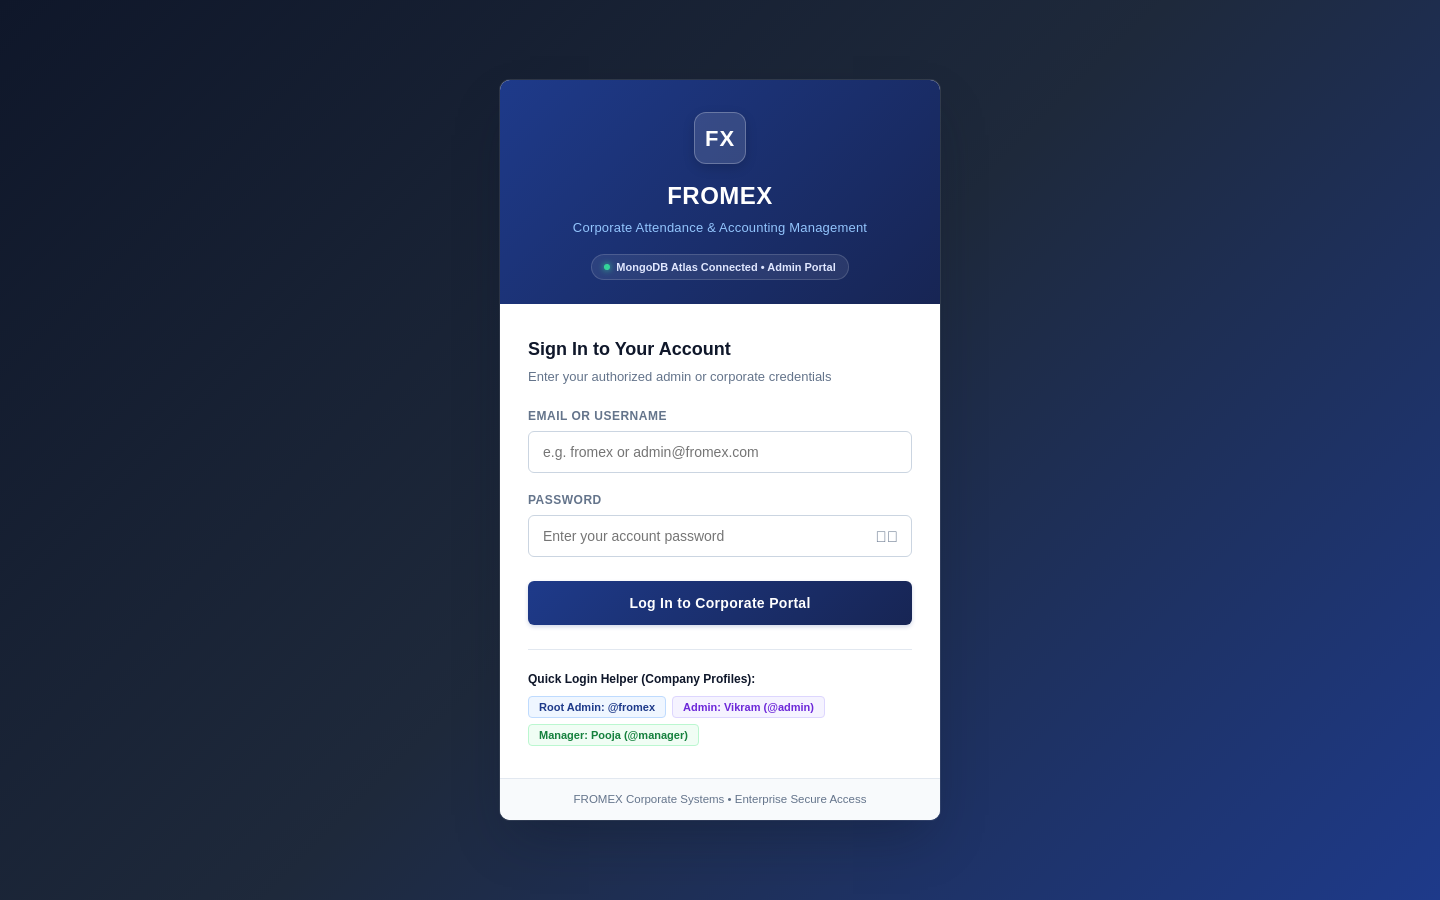
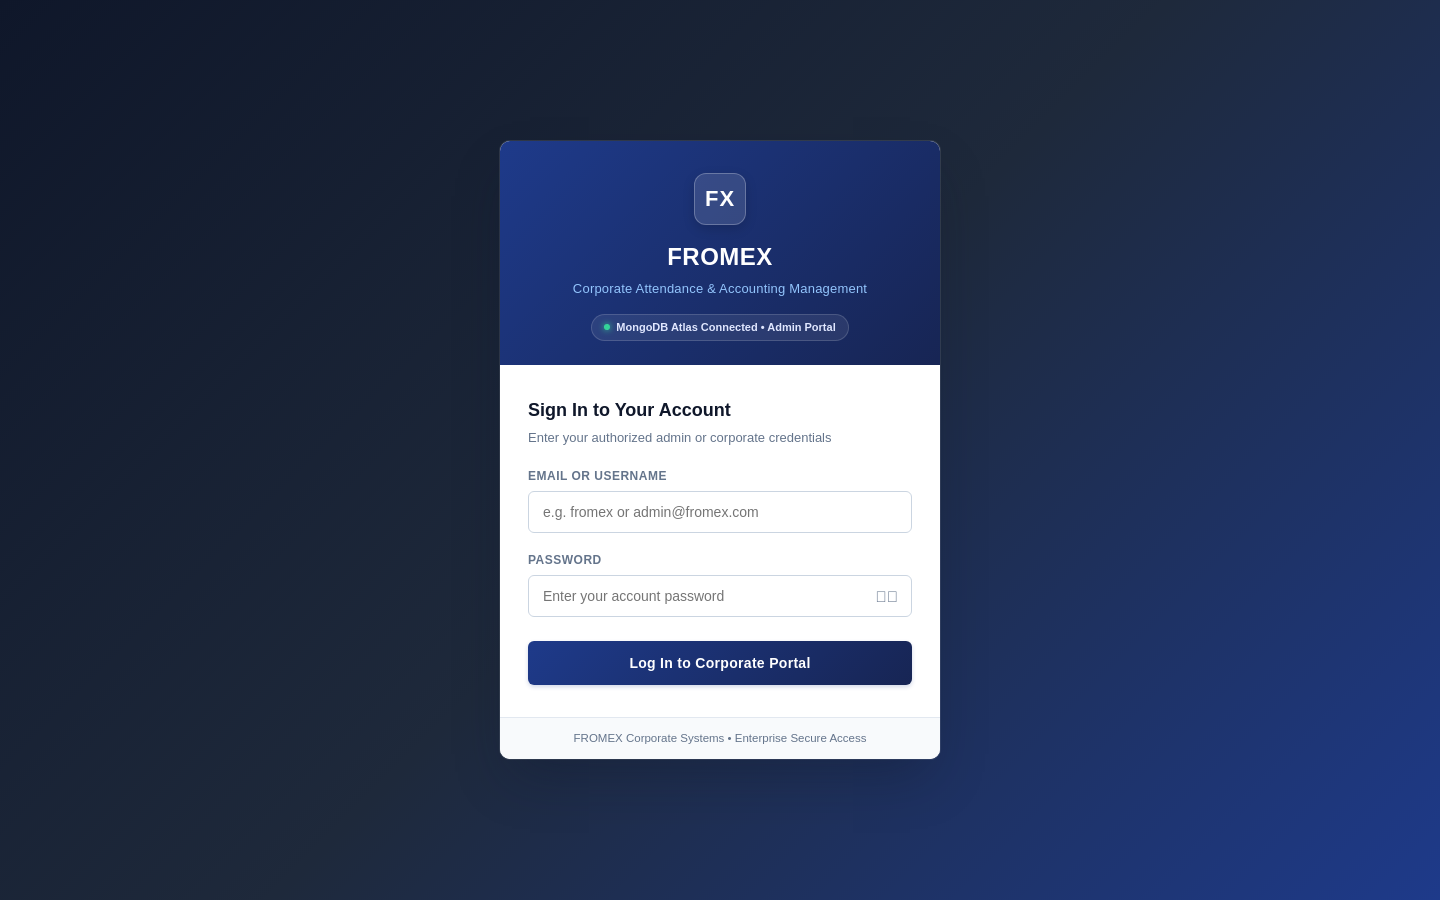
Remove Quick Login Helper section from login page

Changed region(s): [[0.3438, 0.0622, 0.6562, 0.9333]]

diff --git a/app/login/page.tsx b/app/login/page.tsx
@@ -102,11 +102,6 @@ export default function LoginPage() {
     }
   };
 
-  const fillQuickCredentials = (u: string, p: string) => {
-    setUsernameOrEmail(u);
-    setPassword(p);
-    setErrorMessage('');
-  };
 
   if (isCheckingAuth) {
     return (
@@ -487,73 +482,6 @@ export default function LoginPage() {
             </button>
           </form>
 
-          {/* Quick-Fill Helper for Authorized Admin Roles */}
-          <div
-            style={{
-              marginTop: '24px',
-              paddingTop: '20px',
-              borderTop: '1px solid var(--border-subtle, #e2e8f0)',
-              fontSize: '12px',
-              color: 'var(--text-muted, #64748b)'
-            }}
-          >
-            <div style={{ fontWeight: 600, marginBottom: '8px', color: 'var(--secondary, #0f172a)' }}>
-              Quick Login Helper (Company Profiles):
-            </div>
-            <div style={{ display: 'flex', flexWrap: 'wrap', gap: '6px' }}>
-              <button
-                type="button"
-                id="btn-quick-admin"
-                onClick={() => fillQuickCredentials('fromex', 'fromex123')}
-                style={{
-                  background: 'var(--primary-light, #eff6ff)',
-                  color: 'var(--primary, #1e3a8a)',
-                  border: '1px solid var(--primary-border, #bfdbfe)',
-                  borderRadius: 'var(--radius-sm, 4px)',
-                  padding: '4px 10px',
-                  fontSize: '11px',
-                  fontWeight: 600,
-                  cursor: 'pointer'
-                }}
-              >
-                Root Admin: @fromex
-              </button>
-              <button
-                type="button"
-                id="btn-quick-admin2"
-                onClick={() => fillQuickCredentials('admin', 'fromex123')}
-                style={{
-                  background: '#f5f3ff',
-                  color: '#6d28d9',
-                  border: '1px solid #ddd6fe',
-                  borderRadius: 'var(--radius-sm, 4px)',
-                  padding: '4px 10px',
-                  fontSize: '11px',
-                  fontWeight: 600,
-                  cursor: 'pointer'
-                }}
-              >
-                Admin: Vikram (@admin)
-              </button>
-              <button
-                type="button"
-                id="btn-quick-manager"
-                onClick={() => fillQuickCredentials('manager', 'fromex123')}
-                style={{
-                  background: '#f0fdf4',
-                  color: '#15803d',
-                  border: '1px solid #bbf7d0',
-                  borderRadius: 'var(--radius-sm, 4px)',
-                  padding: '4px 10px',
-                  fontSize: '11px',
-                  fontWeight: 600,
-                  cursor: 'pointer'
-                }}
-              >
-                Manager: Pooja (@manager)
-              </button>
-            </div>
-          </div>
         </div>
 
         {/* Card Footer */}
